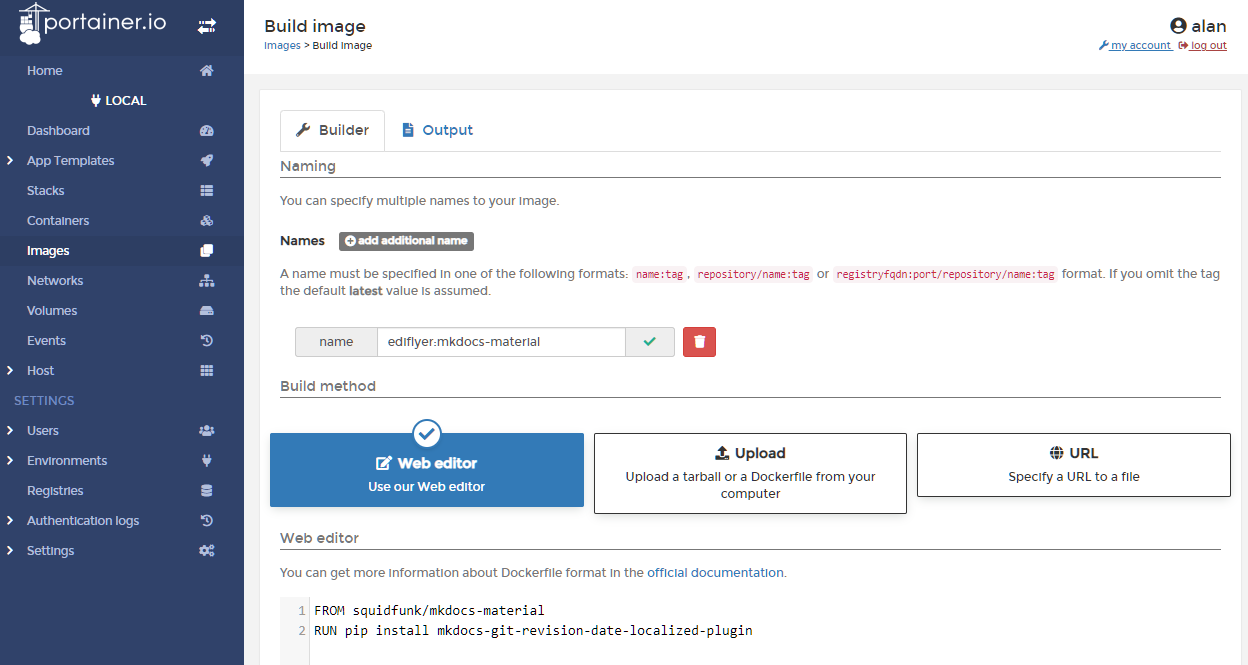
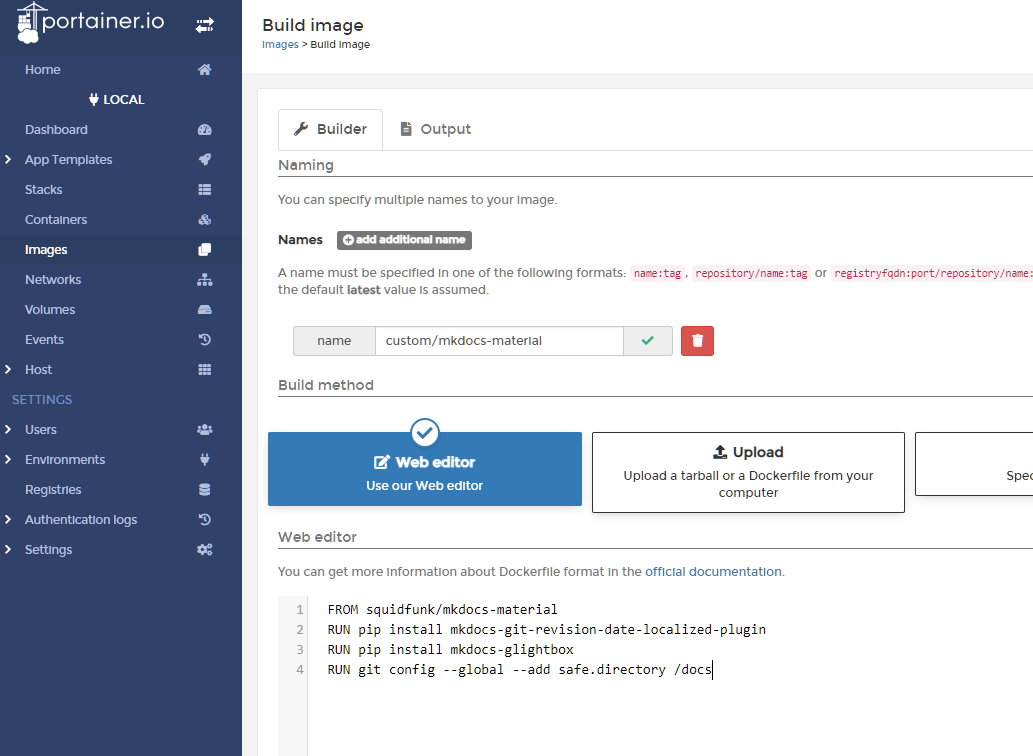
add plugin

diff --git a/docs/server-setup/server_setup.md b/docs/server-setup/server_setup.md
@@ -236,7 +236,7 @@ The configuration below links to this config file and also links to the local ti
         ```
 === "docker-compose (Portainer stack)"
     ???+ example "docker-compose/watchtower.yml" 
-        ``` yaml
+        ``` yaml linenums="1"
         --8<-- "docs/server-setup/docker-compose/watchtower.yml"
         ```
 !!! tip "Run frequency"
@@ -253,7 +253,7 @@ The configuration below links to this config file and also links to the local ti
 ## NGINX Proxy Manager install
 Apply this docker-compose (based on https://nginxproxymanager.com/setup/#running-the-app) as a stack in Portainer to deploy: 
 ??? example "docker-compose/nginx-proxy-manager.yml"
-    ``` yaml
+    ``` yaml linenums="1"
     --8<-- "docs/server-setup/docker-compose/nginx-proxy-manager.yml"
     ```
 
@@ -268,7 +268,7 @@ Nice logviewer application that lets you monitor all the container logs - https:
 
 Apply this docker-compose as a stack in Portainer to deploy:
 ??? example "docker-compose/dozzle.yml"
-    ``` yaml
+    ``` yaml linenums="1"
     --8<-- "docs/server-setup/docker-compose/dozzle.yml"
     ```
 Add to nginx proxy manager as usual, but with the addition of `proxy_read_timeout 30m;` in the advanced settings tab to minimise the issue of the default 60s proxy timeout causing [repeat log entries](https://github.com/amir20/dozzle/issues/1404).
@@ -384,20 +384,22 @@ Copy across trigger script.
 ## mkdocs-material setup
 See [`triggerscript.sh`](../triggerscript.sh) for the build command for the deployed setup, however for testing changes live a persistent container serving mkdocs-material is much quicker and easier to use.
 
-We want to use the [`git-revision-date-localized` plugin](https://github.com/timvink/mkdocs-git-revision-date-localized-plugin) and this plugin has to be installed by `pip` on top of the main `mkdocs-material` image, therefore we need to create a custom Dockerfile to add this command:
-???+ example "mkdocs.dockerfile"
-    ``` docker
+We want to use the [`git-revision-date-localized` plugin](https://github.com/timvink/mkdocs-git-revision-date-localized-plugin) and the [MkDocs GLightbox plugin](https://blueswen.github.io/mkdocs-glightbox/) - these need to be installed by `pip` on top of the main `mkdocs-material` image, therefore we need to create a custom Dockerfile to add the revelant commands and create a custom image before we can activate them in the `mkdocs.yml` configuration file:
+??? example "mkdocs.dockerfile - use in Portainer as Images > Build image"
+    Name: `custom/mkdocs-material`
+    ``` docker linenums="1"
     FROM squidfunk/mkdocs-material
     RUN pip install mkdocs-git-revision-date-localized-plugin
+    RUN pip install mkdocs-glightbox
     RUN git config --global --add safe.directory /docs
     ```
+    ![](../images/2022-07-10-12-16-58.png)
 Once we have created that file we can then build the custom image using `docker build --tag="custom/mkdocs-material" --file="mkdocs.dockerfile" .` (the `.` at the end is important as it sets the build context and the command won't work without it!)
 
 Now that the custom image has been created we can use a docker-compose file to create a stack in Portainer.  The benefit of having this as a stack as is that we can easily re-deploy it.
 
-![](../images/2022-07-10-12-16-58.png)
 ??? example "docker-compose/mkdocs-live.yml"
-    ``` yaml
+    ``` yaml linenums="1"
     --8<-- "docs/server-setup/docker-compose/mkdocs-live.yml"
     ```
 
